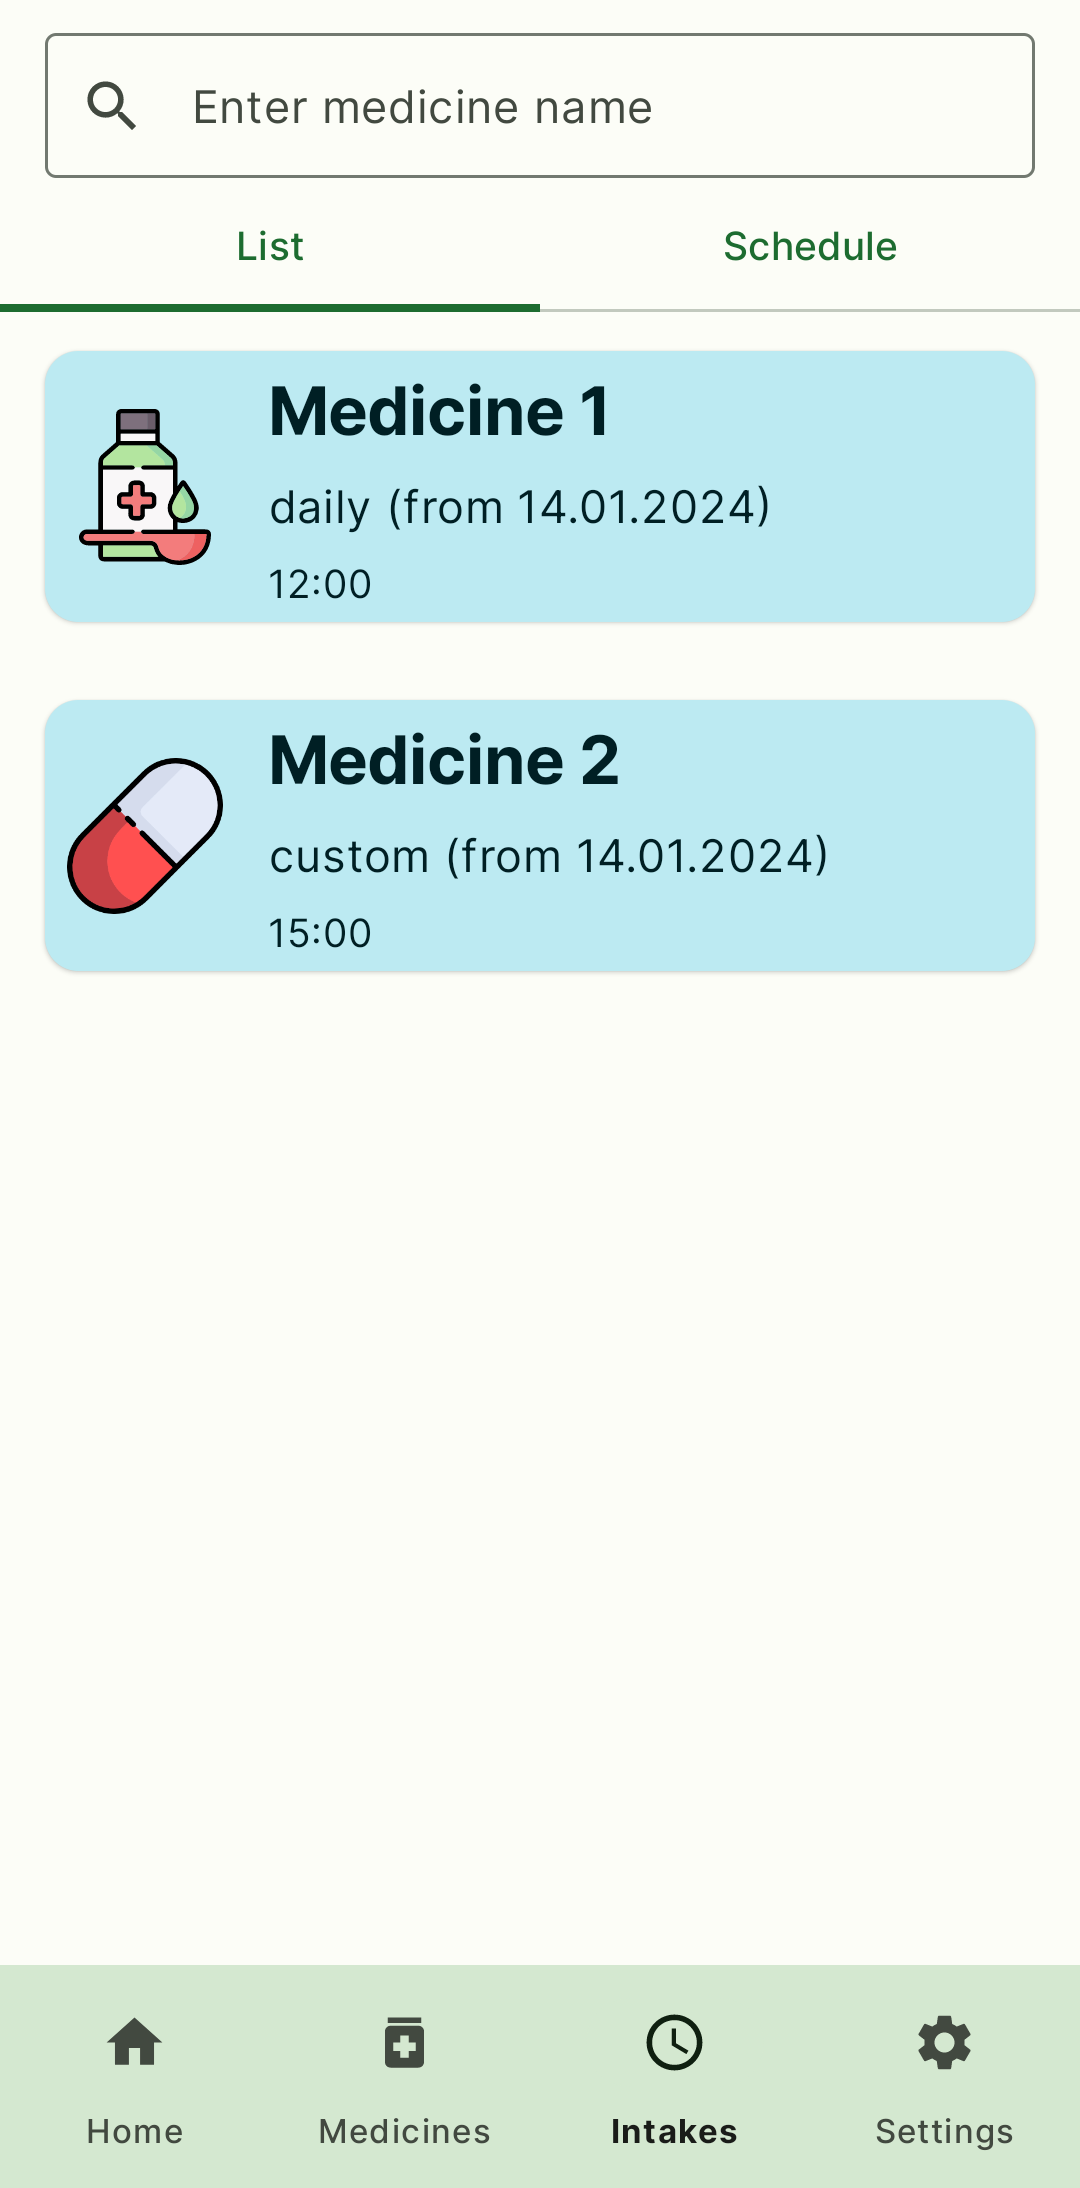
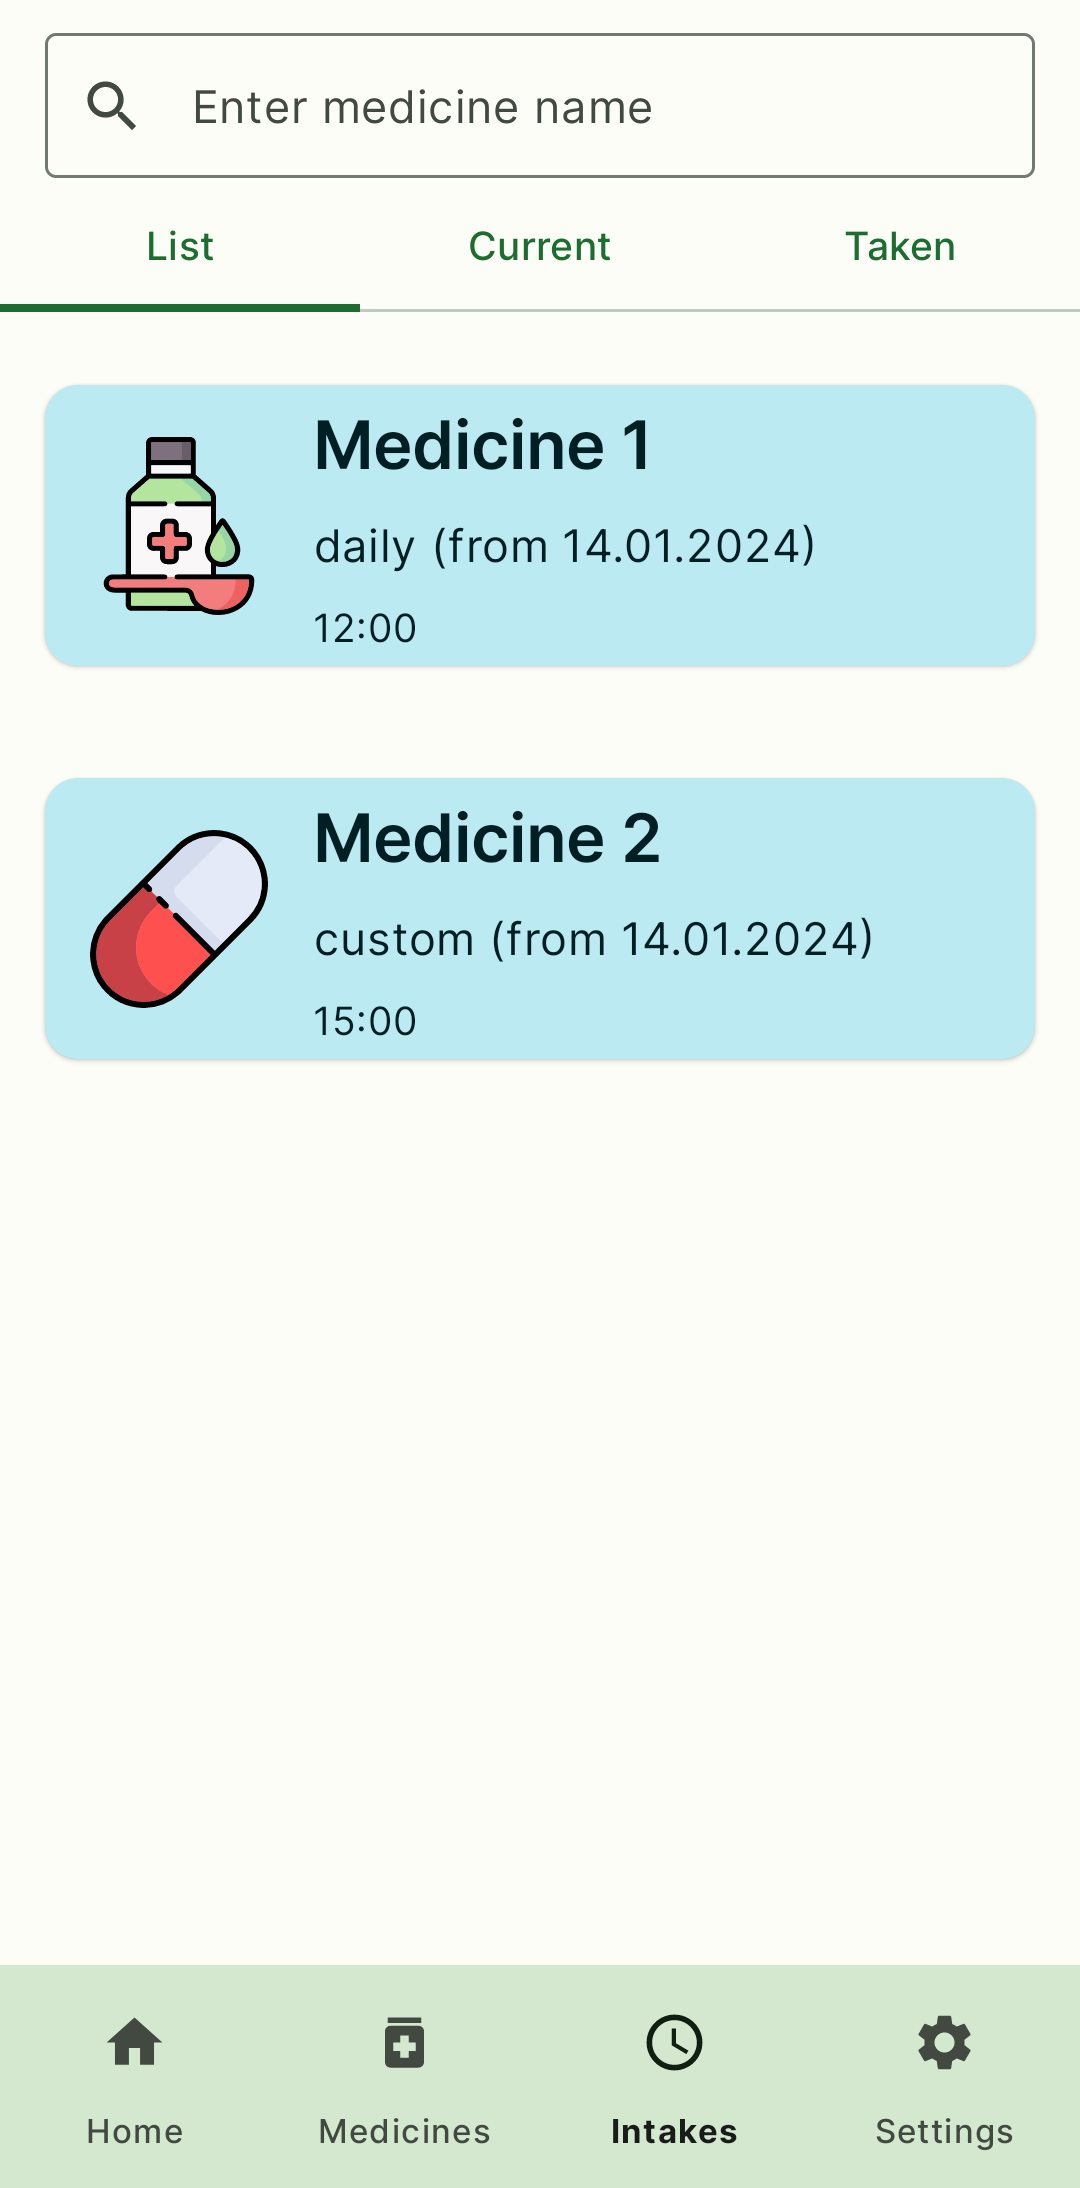
— Изменён вид меню "Приём". Теперь доступно три вкладки: общий список принимаемых препаратов, текущее расписание и информация об уже принятых лекарствах. — Убрано ограничение количества элементов в списке приёмов. — Исправлена ошибка, из-за которой очень длинное название лекарства в его карточке в м

diff --git a/app/src/main/java/ru/application/homemedkit/fragments/FragmentIntakes.kt b/app/src/main/java/ru/application/homemedkit/fragments/FragmentIntakes.kt
@@ -17,8 +17,7 @@ import androidx.compose.foundation.layout.padding
 import androidx.compose.foundation.layout.size
 import androidx.compose.foundation.layout.wrapContentHeight
 import androidx.compose.foundation.lazy.LazyColumn
-import androidx.compose.foundation.rememberScrollState
-import androidx.compose.foundation.verticalScroll
+import androidx.compose.foundation.lazy.rememberLazyListState
 import androidx.compose.material.icons.Icons
 import androidx.compose.material.icons.filled.Search
 import androidx.compose.material.icons.outlined.Clear
@@ -58,11 +57,11 @@ import ru.application.homemedkit.helpers.ConstantsHelper.BLANK
 import ru.application.homemedkit.helpers.ConstantsHelper.DAY
 import ru.application.homemedkit.helpers.ConstantsHelper.DOWN_DASH
 import ru.application.homemedkit.helpers.ConstantsHelper.INTAKE_ID
-import ru.application.homemedkit.helpers.ConstantsHelper.MONTH_3
 import ru.application.homemedkit.helpers.ConstantsHelper.SEMICOLON
 import ru.application.homemedkit.helpers.ConstantsHelper.WEEK
 import ru.application.homemedkit.helpers.DateHelper.FORMAT_D_H
 import ru.application.homemedkit.helpers.DateHelper.FORMAT_D_M
+import ru.application.homemedkit.helpers.DateHelper.FORMAT_D_M_Y
 import ru.application.homemedkit.helpers.DateHelper.FORMAT_H
 import ru.application.homemedkit.helpers.DateHelper.FORMAT_S
 import ru.application.homemedkit.helpers.DateHelper.ZONE
@@ -105,6 +104,10 @@ class FragmentIntakes : Fragment() {
                     var text by rememberSaveable { mutableStateOf(BLANK) }
                     var selectedIndex by remember { mutableIntStateOf(0) }
 
+                    val stateOne = rememberLazyListState()
+                    val stateTwo = rememberLazyListState()
+                    val stateThr = rememberLazyListState()
+
                     Column {
                         Row(Modifier.fillMaxWidth(), Arrangement.Center) {
                             OutlinedTextField(
@@ -142,7 +145,11 @@ class FragmentIntakes : Fragment() {
                                     Tab(
                                         selected = selectedIndex == 1,
                                         onClick = { selectedIndex = 1 },
-                                        text = { Text(text = getString(R.string.intakes_tab_schedule)) }
+                                        text = { Text(text = getString(R.string.intakes_tab_current)) }
+                                    )
+                                    Tab(selected = selectedIndex == 2,
+                                        onClick = { selectedIndex = 2 },
+                                        text = { Text(text = getString(R.string.intakes_tab_taken)) }
                                     )
                                 }
                             }
@@ -152,18 +159,31 @@ class FragmentIntakes : Fragment() {
                             0 -> {
                                 LazyColumn(
                                     modifier = Modifier.padding(top = 10.dp),
+                                    state = stateOne,
                                     verticalArrangement = Arrangement.spacedBy(8.dp)
                                 ) {
                                     val filtered = FiltersHelper(requireActivity()).intakes(text)
-                                    items(filtered.size) { index -> IntakeList(filtered[index]) }
+                                    items(filtered.size) { IntakeList(filtered[it]) }
                                 }
                             }
 
                             1 -> {
-                                val result = getTriggers(text)
+                                val result = getTriggers(text, false)
 
-                                Column(modifier = Modifier.verticalScroll(rememberScrollState())) {
-                                    result.forEach { Row { Column { IntakeSchedule(data = it) } } }
+                                LazyColumn(state = stateTwo) {
+                                    items(result.size) {
+                                        Row { Column { IntakeSchedule(result.entries.elementAt(it)) } }
+                                    }
+                                }
+                            }
+
+                            2 -> {
+                                val result = getTriggers(text, true)
+
+                                LazyColumn(state = stateThr, reverseLayout = true) {
+                                    items(result.size) {
+                                        Row { Column { IntakeSchedule(result.entries.elementAt(it)) } }
+                                    }
                                 }
                             }
                         }
@@ -174,7 +194,7 @@ class FragmentIntakes : Fragment() {
     }
 
 
-    private fun getTriggers(text: String): Map<Long, List<Alarm>> {
+    private fun getTriggers(text: String, taken: Boolean): Map<Long, List<Alarm>> {
         val intervals = resources.getStringArray(R.array.interval_types)
 
         val filtered = FiltersHelper(requireActivity()).intakes(text)
@@ -189,12 +209,10 @@ class FragmentIntakes : Fragment() {
                 val milliF = parse("${intake.finalDate} ${intake.time}", FORMAT_D_H)
                     .toInstant(ZONE).toEpochMilli()
 
-                val interval = if (intake.interval.equals(intervals[1])) {
-                    DAY
-                } else if (intake.interval.equals(intervals[2])) {
-                    WEEK
-                } else {
-                    DAY * intake.interval.substringAfter(DOWN_DASH).toInt()
+                val interval = when {
+                    intake.interval.equals(intervals[1]) -> DAY
+                    intake.interval.equals(intervals[2]) -> WEEK
+                    else -> DAY * intake.interval.substringAfter(DOWN_DASH).toInt()
                 }
 
                 while (milliS <= milliF) {
@@ -223,12 +241,15 @@ class FragmentIntakes : Fragment() {
             }
         }
 
-        triggers.sortBy { it.trigger }
-        if (triggers.isNotEmpty())
-            while (triggers.last().trigger - currentTimeMillis() > MONTH_3) triggers.removeLast()
+        if (taken) triggers.sortByDescending { it.trigger }
+        else triggers.sortBy { it.trigger }
 
-        return triggers.filter { it.trigger > currentTimeMillis() }
-            .groupBy { ofEpochMilli(it.trigger).atZone(ZONE).toLocalDate().toEpochDay() }
+        return if (taken)
+            triggers.filter { it.trigger < currentTimeMillis() }
+                .groupBy { ofEpochMilli(it.trigger).atZone(ZONE).toLocalDate().toEpochDay() }
+        else
+            triggers.filter { it.trigger > currentTimeMillis() }
+                .groupBy { ofEpochMilli(it.trigger).atZone(ZONE).toLocalDate().toEpochDay() }
     }
 
     @Composable
@@ -294,6 +315,12 @@ class FragmentIntakes : Fragment() {
         val medicineDAO = database.medicineDAO()
         val intakeDAO = database.intakeDAO()
 
+        val date = LocalDate.ofEpochDay(data.key)
+        val textDate = date.format(
+            if (date.year == LocalDate.now().year) FORMAT_D_M
+            else FORMAT_D_M_Y
+        )
+
         Column(
             modifier = Modifier
                 .fillMaxWidth()
@@ -303,7 +330,7 @@ class FragmentIntakes : Fragment() {
             horizontalAlignment = Alignment.Start
         ) {
             Text(
-                text = LocalDate.ofEpochDay(data.key).format(FORMAT_D_M),
+                text = textDate,
                 color = MaterialTheme.colorScheme.onSurface,
                 fontWeight = FontWeight.SemiBold,
                 style = MaterialTheme.typography.titleLarge

diff --git a/app/src/main/java/ru/application/homemedkit/fragments/FragmentMedicines.kt b/app/src/main/java/ru/application/homemedkit/fragments/FragmentMedicines.kt
@@ -126,11 +126,9 @@ class FragmentMedicines : Fragment() {
                             ) { Icon(painterResource(id = R.drawable.vector_sort), null) }
                         }
 
-                        val filtered =
-                            FiltersHelper(requireActivity()).medicines(text).sortedWith(comparator)
-                        LazyColumn {
-                            items(filtered.size) { index -> MedicineCard(filtered[index]) }
-                        }
+                        val filtered = FiltersHelper(requireActivity()).medicines(text).sortedWith(comparator)
+
+                        LazyColumn { items(filtered.size) { MedicineCard(filtered[it]) } }
 
                         if (showBottomSheet) {
                             ModalBottomSheet(
@@ -214,7 +212,7 @@ class FragmentMedicines : Fragment() {
             ) {
                 Text(
                     text = shortName,
-                    modifier = Modifier.padding(top = 16.dp),
+                    modifier = Modifier.padding(top = 16.dp, end = 8.dp),
                     color = MaterialTheme.colorScheme.onSecondaryContainer,
                     fontWeight = FontWeight.Bold,
                     style = MaterialTheme.typography.headlineSmall

diff --git a/app/src/main/java/ru/application/homemedkit/helpers/DateHelper.java b/app/src/main/java/ru/application/homemedkit/helpers/DateHelper.java
@@ -26,6 +26,7 @@ public class DateHelper {
     public static final DateTimeFormatter FORMAT_L = DateTimeFormatter.ofLocalizedDate(FormatStyle.LONG);
     public static final DateTimeFormatter FORMAT_S = DateTimeFormatter.ofPattern("dd.MM.yyyy");
     public static final DateTimeFormatter FORMAT_D_H = DateTimeFormatter.ofPattern("dd.MM.yyyy H:mm");
+    public static final DateTimeFormatter FORMAT_D_M_Y = DateTimeFormatter.ofPattern("d MMMM yyyy");
     public static final DateTimeFormatter FORMAT_D_M = DateTimeFormatter.ofPattern("d MMMM, E");
     public static final DateTimeFormatter FORMAT_H = DateTimeFormatter.ofPattern("H:mm");
     private static final DateTimeFormatter FORMAT_M_Y = DateTimeFormatter.ofPattern("MM/yyyy");
